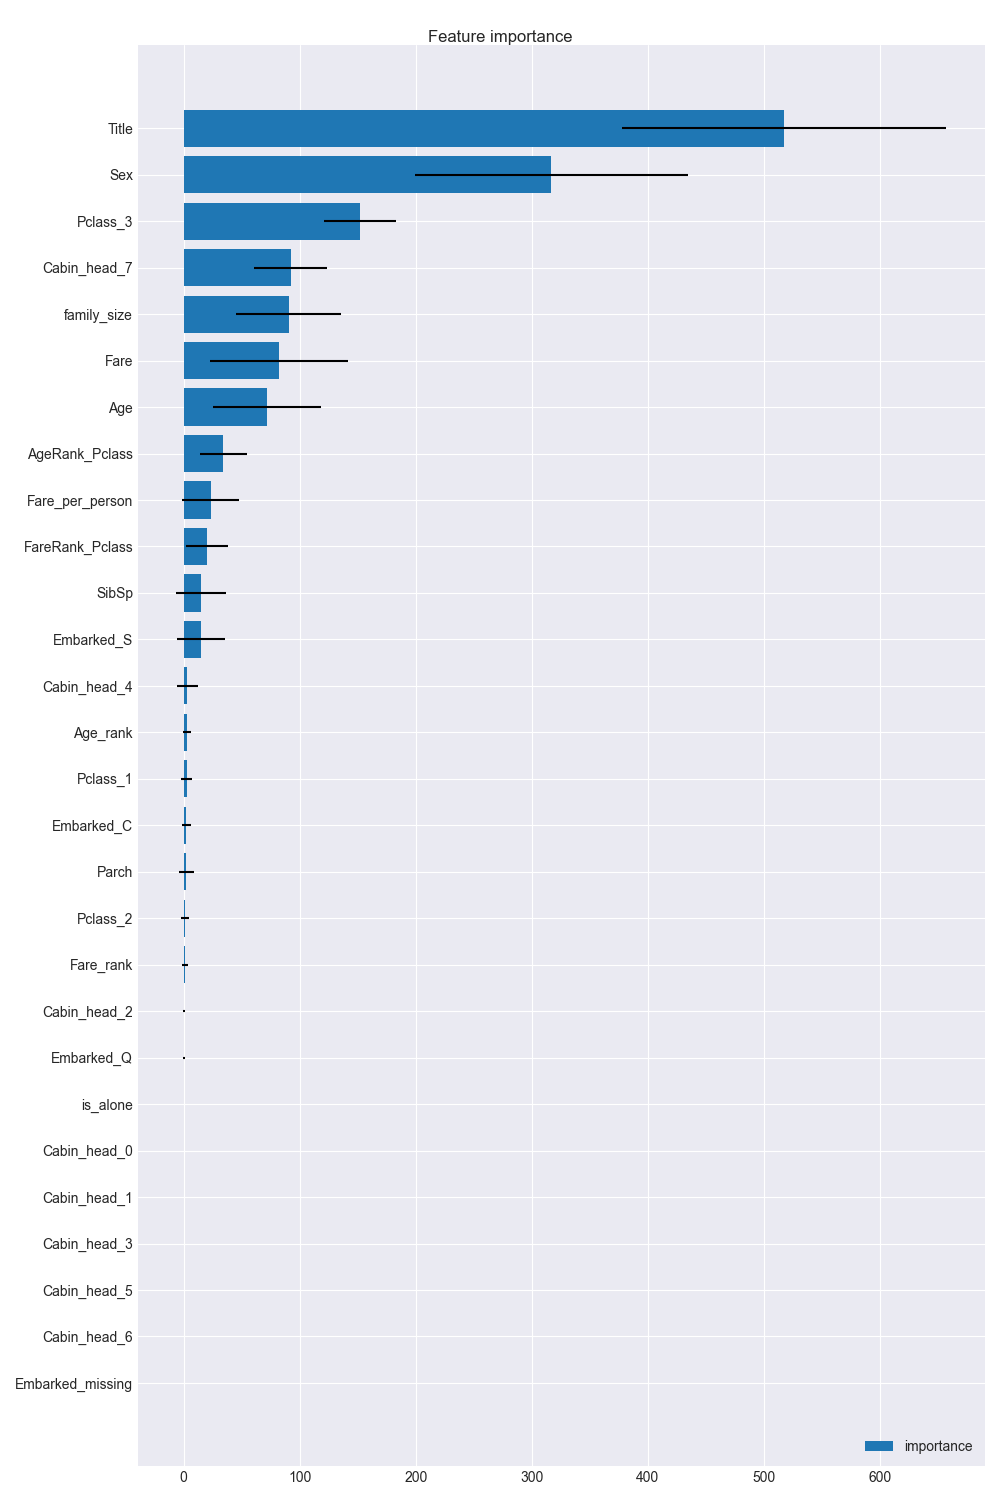
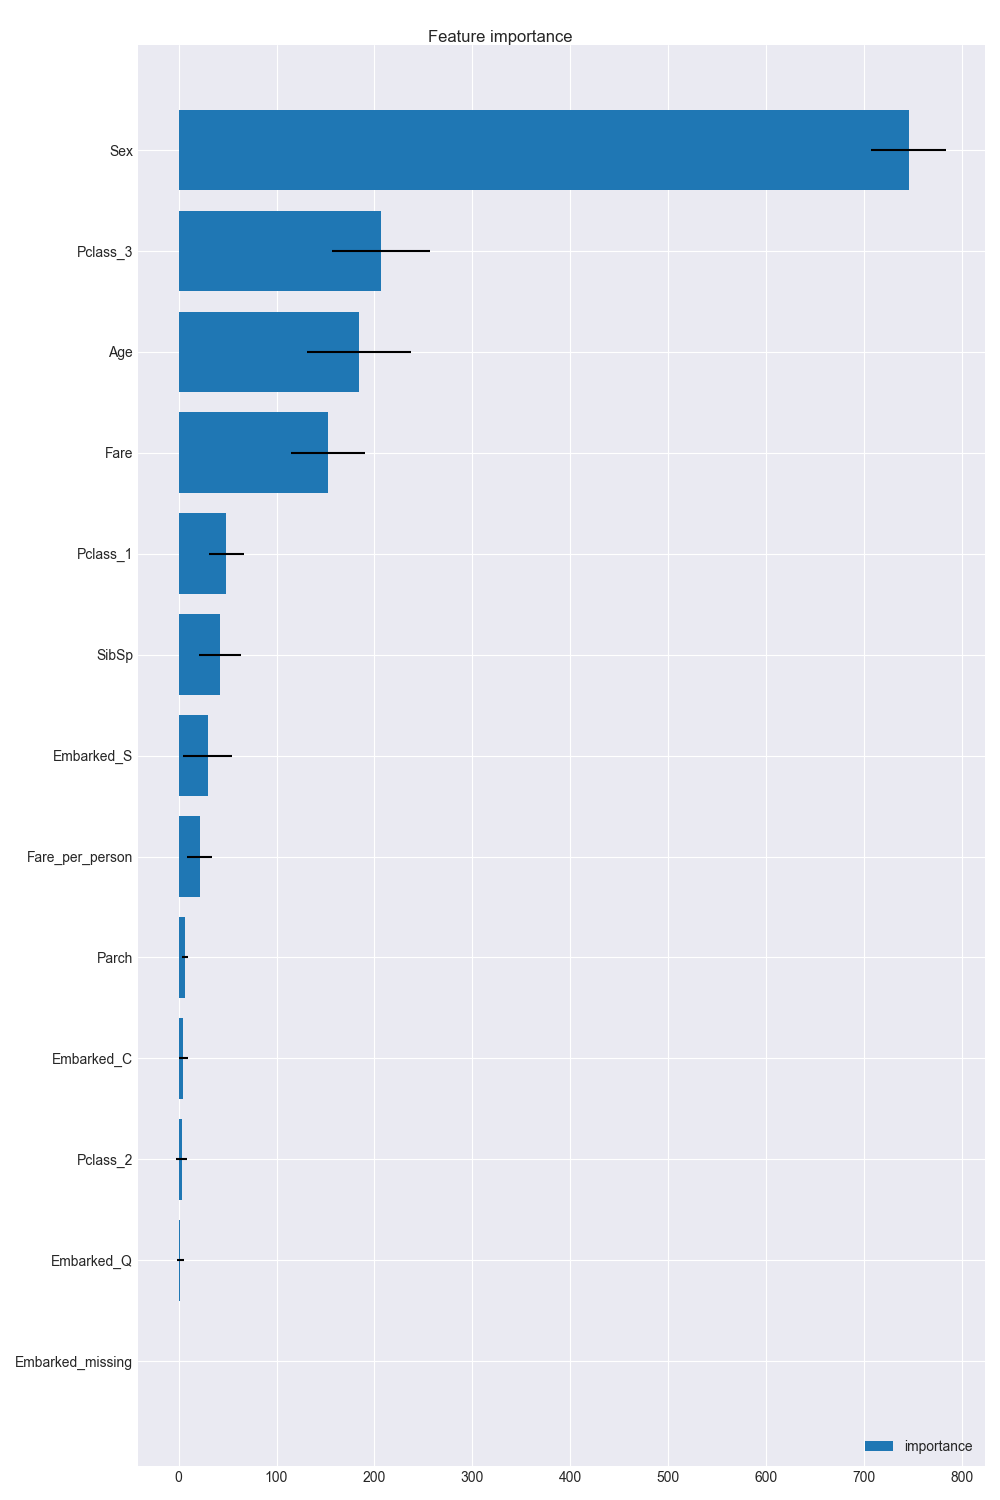
[exp] run first exp of simple features

diff --git a/titanic/train.py b/titanic/train.py
@@ -17,14 +17,16 @@ from mikasa.common import timer
 from mikasa.io import load_pickle, dump_pickle, load_feature
 
 from mikasa.trainer.gbdt import LGBMTrainer
-from mikasa.trainer.cross_validation import RSACrossValidationTrainer
 from mikasa.trainer.base import SklearnRegressionTrainer
+from mikasa.trainer.cross_validation import RSACrossValidationTrainer
+from mikasa.ensemble import SimpleAgerageEnsember
 
 from mikasa.plot import plot_importance
 from mikasa.mlflow_writer import MlflowWriter
 
 
-def run_train(model_name, cv, base_trainer, X, y):
+def run_train(model_name, base_trainer, X, y):
+    cv = StratifiedKFold(n_splits=3, shuffle=True, random_state=config.SEED)
     trainer = RSACrossValidationTrainer(cv, base_trainer, seed=config.SEED)
     trainer.fit(X=X, y=y, num_seed=config.NUM_SEED)
     # Save model.
@@ -36,6 +38,22 @@ def run_train(model_name, cv, base_trainer, X, y):
     oof = np.where(oof > 0.5, 1, 0)
     metric = accuracy_score(y[is_usage_oof], oof[is_usage_oof])
     return trainer, metric
+
+
+def eval_single_model(trainer, data, target):
+    pred = np.array(trainer.predict(data)).T
+
+    ensembler = SimpleAgerageEnsember()
+    pred_avg = ensembler.predict(pred)
+    pred_avg = np.where(pred_avg > 0.5, 1, 0)
+    score = accuracy_score(target, pred_avg)
+    return score
+
+
+def save_importance(model_name, trainer):
+    name, mean_importance, std_importance = trainer.get_importance()
+    fig = plot_importance(name, mean_importance, std_importance)
+    fig.savefig(f"../data/titanic/working/{model_name}_importance.png")
 
 
 def main():
@@ -55,37 +73,33 @@ def main():
         X, y, test_size=0.2, random_state=config.SEED, stratify=y
     )
 
-    metric_dict = {}
+    cv_metrics = {}
+    eval_metrics = {}
 
     # Train model.
-    cv = StratifiedKFold(n_splits=3, shuffle=True)
     lgbm_trainer = LGBMTrainer(
         config.LightgbmParams.params, config.LightgbmParams.train_params
     )
-    trainer, metric = run_train("LGBM", cv, lgbm_trainer, X_train, y_train)
-    metric_dict["LGBM"] = metric
-    # Save figure of feature importance.
-    name, mean_importance, std_importance = trainer.get_importance()
-    fig = plot_importance(name, mean_importance, std_importance)
-    fig.savefig("../data/titanic/working/lgbm_importance.png")
+    trainer, metric = run_train("LGBM", lgbm_trainer, X_train, y_train)
+    cv_metrics["LGBM"] = metric
+    eval_metrics["LGBM"] = eval_single_model(trainer, X_eval, y_eval)
+    save_importance("LGBM", trainer)
 
-    # Prediction
+    # Stacking
     pred_first = []
-    predict = np.array(trainer.predict(X_eval)).T
-    pred_first.append(predict)
+    pred_first.append(np.array(trainer.predict(X_eval)).T)
     pred_first = np.concatenate(pred_first, axis=1)
     pred_first = pd.DataFrame(pred_first)
 
-    # Stacking
     base_trainer = SklearnRegressionTrainer(model=Ridge(random_state=config.SEED))
-    cv = StratifiedKFold(n_splits=3, shuffle=True, random_state=config.SEED)
-    trainer, metric = run_train("stack_ridge", cv, base_trainer, pred_first, y_eval)
-    print(trainer.get_models()[0].coef_)
-    metric_dict["Stack"] = metric
+    trainer, metric = run_train("stack_ridge", base_trainer, pred_first, y_eval)
+    eval_metrics["Stack"] = metric
 
     # Evaluation
-    for model_name, metric in metric_dict.items():
-        print(f"{model_name:>8} Metric: {metric:.08f}")
+    for model_name, metric in cv_metrics.items():
+        print(f"{model_name:>8} CV   Metric: {metric:.08f}")
+    for model_name, metric in eval_metrics.items():
+        print(f"{model_name:>8} Eval Metric: {metric:.08f}")
 
     # Domp logs to mlflow.
     if config.DEBUG is not True:
@@ -97,44 +111,25 @@ def main():
         writer.set_note_content(config.MLflowConfig.experiment_note)
         # Features
         writer.log_param("Feature", ", ".join(feature_files))
-        # Logistic Regression
-        # writer.log_param("LR_params", config.LogisticRegressionParams.params)
-        # writer.log_metric("LR_Accuracy", lr_accuracy)
-        # writer.log_artifact("../data/working/lr_models.pkl")
-        # # Rndom Forest
-        # writer.log_param("RF_params", config.RandomForestParams.params)
-        # writer.log_metric("RF_Accuracy", rf_accuracy)
-        # writer.log_artifact("../data/working/rf_models.pkl")
-        # # LightGBM
-        # writer.log_param(
-        #     "LGBM_params",
-        #     {
-        #         "params": config.LightgbmParams.params,
-        #         "train_params": config.LightgbmParams.train_params,
-        #     },
-        # )
-        # writer.log_metric("LGBM_Accuracy", lgbm_accuracy)
-        # writer.log_artifact("../data/working/lgbm_models.pkl")
-        # writer.log_figure(lgbm_importance_fig, "lgbm_importance.png")
-        # lgbm_importance_fig.savefig("../data/working/lgbm_importance.png")
-        # # XGBoost
-        # writer.log_param(
-        #     "XGB_params",
-        #     {
-        #         "params": config.XGBoostPrams.params,
-        #         "train_params": config.XGBoostPrams.train_params,
-        #     },
-        # )
-        # writer.log_metric("XGB_Accuracy", xgb_accuracy)
-        # writer.log_artifact("../data/working/xgb_models.pkl")
-        # writer.log_figure(xgb_importance_fig, "xgb_importance.png")
-        # xgb_importance_fig.savefig("../data/working/xgb_importance.png")
-        # # Ensemble
-        # writer.log_metric("Ensemble_Accuracy", ensemble_accuracy)
-        # # Close writer client.
-        # writer.set_terminated()
+        # Paraeters
+        writer.log_param("SEED", config.SEED)
+        writer.log_param("NUM_SEED", config.NUM_SEED)
+        writer.log_param(
+            "LGBM_params",
+            {
+                "params": config.LightgbmParams.params,
+                "train_params": config.LightgbmParams.train_params,
+            },
+        )
+        # Metric
+        for model_name, _metric in cv_metrics.items():
+            writer.log_metric(f"{model_name}_Metric", _metric)
+        for model_name, _metric in eval_metrics.items():
+            writer.log_metric(f"{model_name}_Metric", _metric)
+        # Close writer client.
+        writer.set_terminated()
 
 
 if __name__ == "__main__":
-    with timer("Time of Train Processing"):
+    with timer("Train Processing"):
         main()

diff --git a/titanic/config.py b/titanic/config.py
@@ -11,17 +11,19 @@ class MLflowConfig:
     experiment_name = "Titanic, LGBM"
     run_name = "First Running."
     experiment_note = """
+    Frist experiment.
+    Train model with raw feature.
     """
 
 
 class FeatureList:
     features = [
         "raw_feature",
-        "age_rank",
-        "cabin_feature",
-        "family_feature",
-        "fare_rank",
-        "name_feature",
+        # "age_rank",
+        # "cabin_feature",
+        # "family_feature",
+        # "fare_rank",
+        # "name_feature",
     ]
 
 
